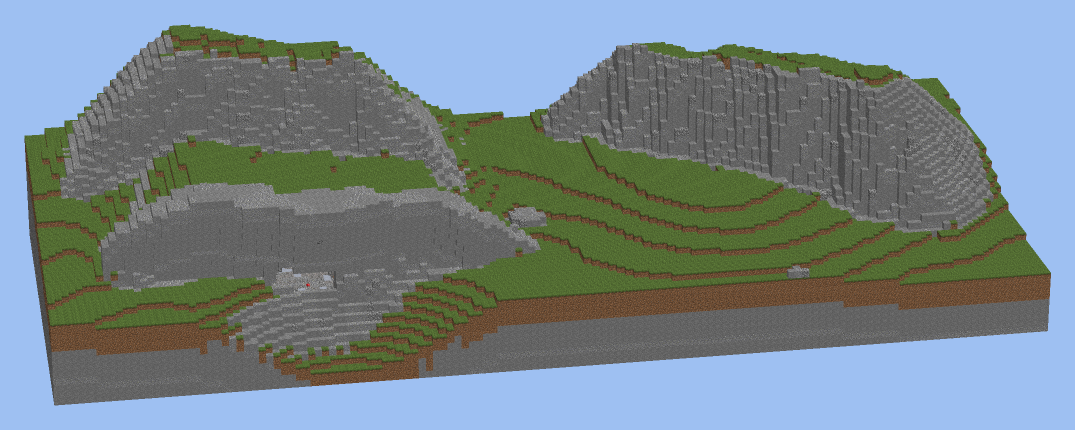
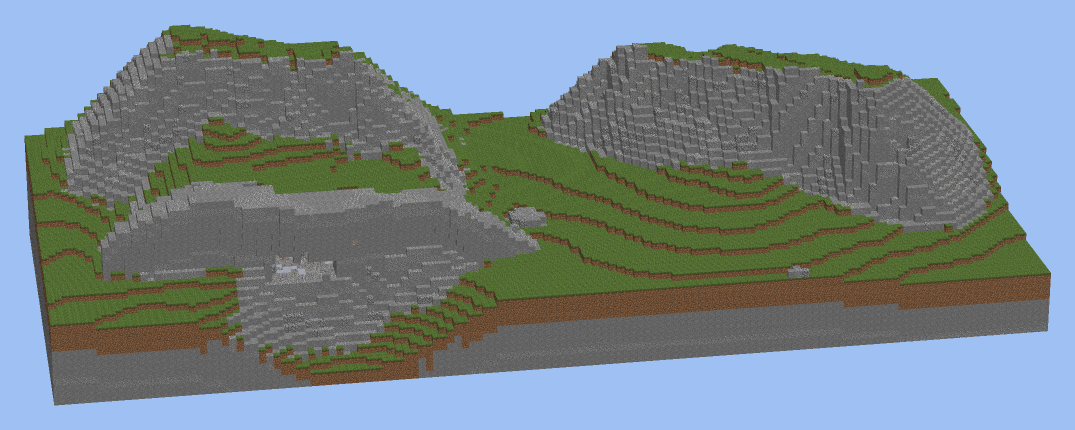
Chantry Gill land: the walls stand on scree slopes that wander
Every wall (the scar, the knott, the edge) rises out of the fell through a
scree slope of its own reach (2 to 15 blocks) and height (a twentieth to two
thirds of the wall), both wandering along it, then its ragged face; the
fell and the wall's foot run together in places and meet at the face in
others.

Claude-Session: https://claude.ai/code/session_01SkxaMovP21NqxJRVezmVa6

diff --git a/freeform/lib/boards/chantry-gill/assets/land_spec.py b/freeform/lib/boards/chantry-gill/assets/land_spec.py
@@ -18,7 +18,15 @@ TOP = 58                                                              # the plat
 GILL = [[139, 40], [112, 36], [88, 41], [62, 37], [40, 34], [22, 30]]
 TARN = [[4, 18], [14, 12], [26, 15], [34, 22], [32, 33], [24, 40], [10, 41], [2, 32]]
 TONGUE = [[22, 12], [26, 13], [24, 24], [20, 26], [19, 18]]
-dist = {"sub": ["z", {"line_z": {"pts": SCAR}}]}                       # blocks south of the scar's foot
+dist = {"sub": ["z", {"line_z": {"pts": SCAR}}]}
+
+
+def foot(d):
+    """How far up its face a wall stands at distance `d` out from its foot line, 0 to 1: a scree slope of its own
+    reach and height in front of it, both wandering along the wall, then the face, ragged."""
+    return {"add": [{"mul": ["talus-share", {"smoothstep": [{"neg": "talus-reach"}, 0.5, d]}]},
+                    {"mul": [{"sub": [1, "talus-share"]}, {"smoothstep": [{"add": [-1, "jag"]}, {"add": [3, "jag"]}, d]}]}]}
+                       # blocks south of the scar's foot
 
 fields = {
     "small": {"fbm": {"cell": 16, "octaves": 2, "seed": 1}},
@@ -26,6 +34,8 @@ fields = {
     "patch": {"fbm": {"cell": 3, "octaves": 2, "seed": 3}},
     "grain": {"fbm": {"cell": 2, "octaves": 1, "seed": 4}},
     "jag": {"mul": [{"fbm": {"cell": 4, "octaves": 2, "seed": 5}}, 2.5]},
+    "talus-reach": {"clip": [{"add": [8, {"mul": [{"fbm": {"cell": 11, "octaves": 2, "seed": 25}}, 9]}]}, 2, 15]},
+    "talus-share": {"clip": [{"add": [0.32, {"mul": [{"fbm": {"cell": 13, "octaves": 2, "seed": 26}}, 0.4]}]}, 0.05, 0.65]},
     "scar-d": dist,
     "knott-d": {"add": [{"sub": ["z", 82]}, {"mul": [{"sub": ["x", 108]}, -0.22]}]},
     "knott-fade": {"mul": [{"smoothstep": [-30, -14, {"sub": ["x", 108]}]}, {"sub": [1, {"smoothstep": [14, 30, {"sub": ["x", 108]}]}]}]},
@@ -48,14 +58,12 @@ ground = [
      "terms": [{"tilt": {"dx": 0.03, "dz": 0.06}}, {"gauss": {"at": [40, 80], "r": 30, "rise": 4, "rz": 22, "angle": 25}},
                {"noise": {"field": "big", "rise": 2.0}}],
      "note": "the fell: rising south and a little east, a swell south-west, rolling in two sizes"},
-    {"id": "scar", "op": "set", "where": {"gt": ["scar-d", -6]},
-     "height": {"profile": {"d": "scar-d", "floor": "H", "mode": "lift",
-                            "steps": [{"start": {"add": [-1, "jag"]}, "end": {"add": [1.5, "jag"]},
-                                       "top": {"add": ["H", {"mul": ["fade", {"max": [0, {"sub": ["plateau", "H"]}]}]}]}}]}},
+    {"id": "scar", "op": "set", "where": {"gt": ["scar-d", -16]},
+     "height": {"add": ["H", {"mul": ["fade", {"max": [0, {"sub": ["plateau", "H"]}]}, foot("scar-d")]}]},
      "note": "the scar: a step of limestone up to the plateau, its edge ragged, dying into the fell at both ends"},
     {"id": "knott", "op": "set", "where": {"gt": ["knott-fade", 0]},
      "height": {"add": ["H", {"mul": ["knott-fade", "knott-crest",
-                                       {"smoothstep": [{"add": [-1, "jag"]}, {"add": [3, "jag"]}, "knott-d"]},
+                                       foot("knott-d"),
                                        {"sub": [1, {"mul": [0.6, {"smoothstep": [5, 26, "knott-d"]}]}]}]}]},
      "note": "the knott: a crag behind the scar, its face to the north over the brow, its back grass"},
     {"id": "knott-gullies", "op": "set", "height": {"gullies": {"at": [108, 130], "count": 70, "depth": 4, "r0": 30,
@@ -64,7 +72,7 @@ ground = [
      "note": "gullies cut into its face"},
     {"id": "edge", "op": "set", "where": {"gt": ["edge-fade", 0]},
      "height": {"add": ["H", {"mul": ["edge-fade", "edge-crest",
-                                       {"smoothstep": [{"add": [-1, "jag"]}, {"add": [3, "jag"]}, "edge-d"]},
+                                       foot("edge-d"),
                                        {"sub": [1, {"mul": [0.7, {"smoothstep": [5, 34, "edge-d"]}]}]}]}]},
      "note": "the edge: a scarp set slantwise west of a col, its face to the north-east, its back falling away"},
     {"id": "edge-gullies", "op": "set", "height": {"gullies": {"at": [62, 126], "count": 60, "depth": 4, "r0": 36,
